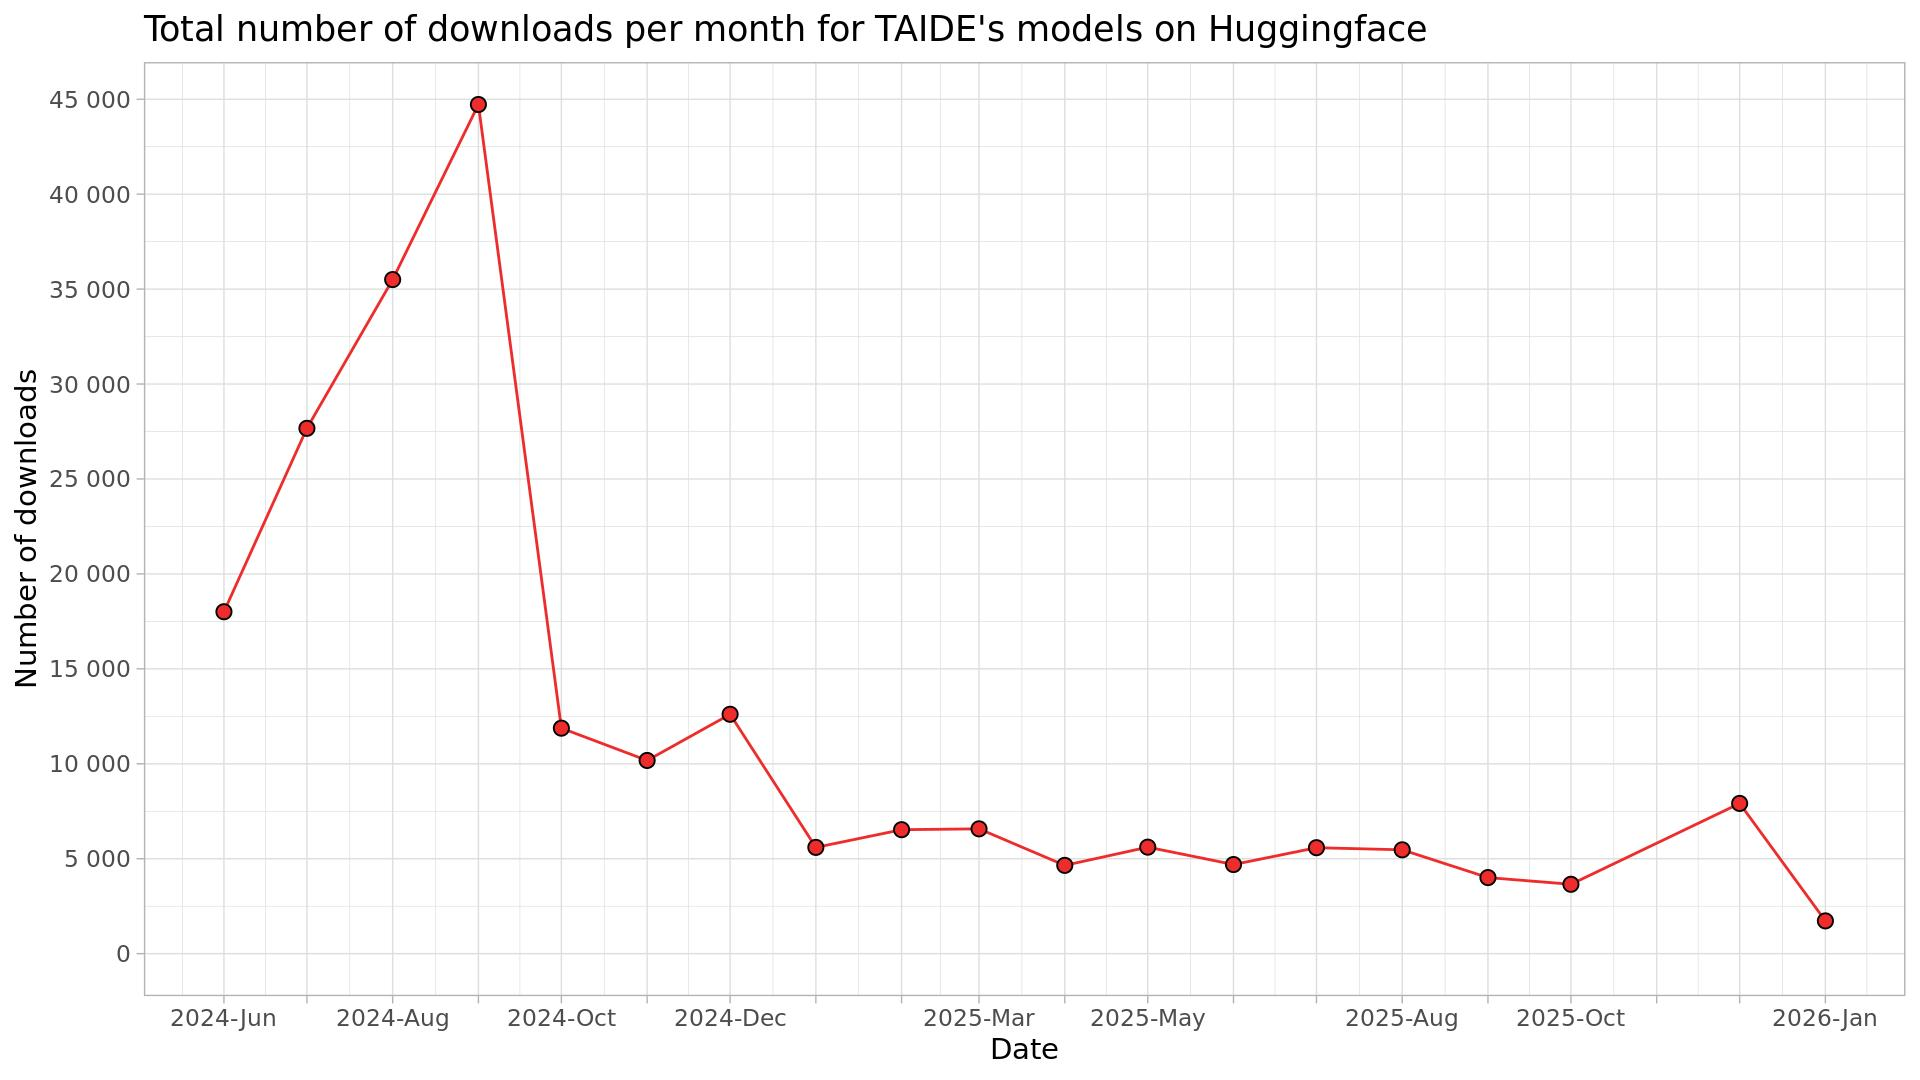
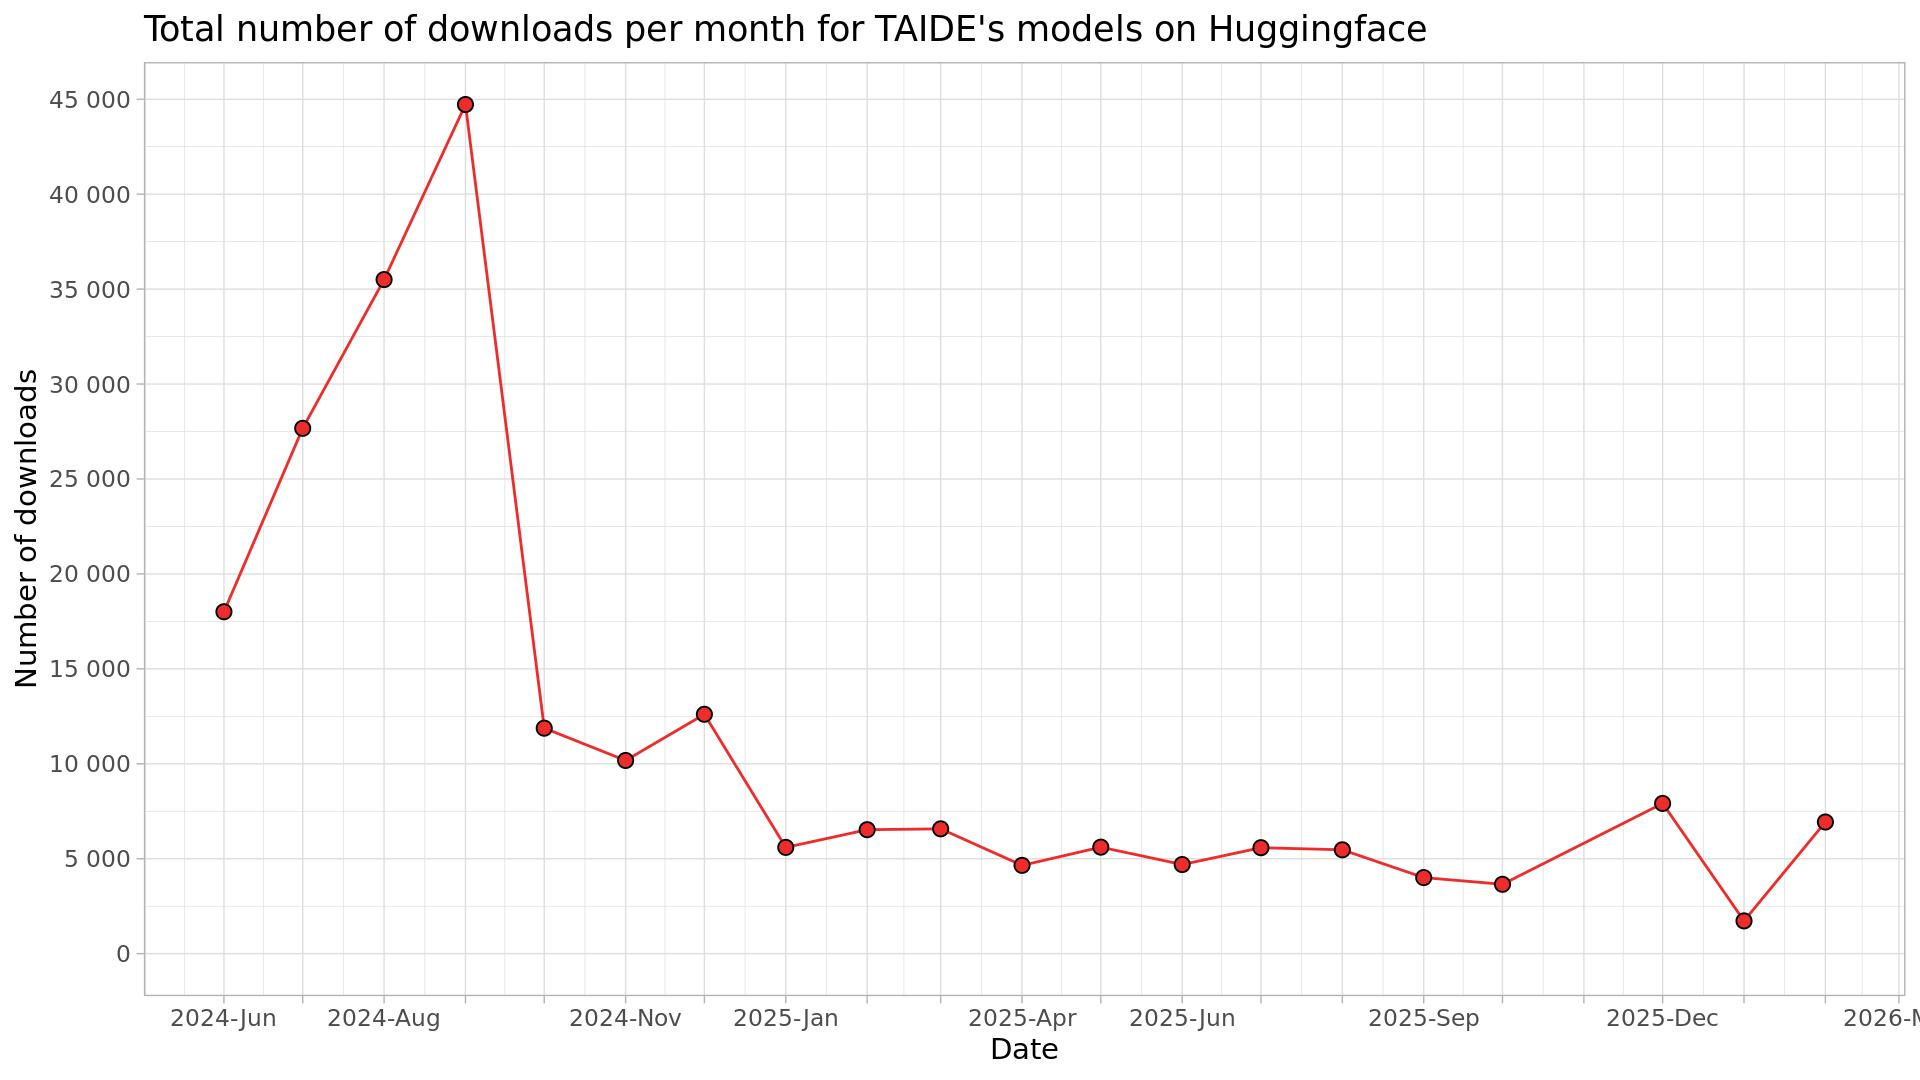
update

diff --git a/README.md b/README.md
@@ -11,17 +11,17 @@ Script is run monthly, and a monthly `csv`-file outputted to `/data` folder.
 !["Huggingface downloads by model plot."](https://github.com/nctu6/huggingface_stats/blob/main/plots/downloads_by_model.jpg)
 
 ## Table of downloads
-|model_name                          | downloadsAllTime| 2026-01| 2025-12| 2025-10| 2025-09| 2025-08| 2025-07| 2025-06| 2025-05| 2025-04| 2025-03| 2025-02| 2025-01| 2024-12| 2024-11| 2024-10| 2024-09| 2024-08| 2024-07| 2024-06|
-|:-----------------------------------|----------------:|-------:|-------:|-------:|-------:|-------:|-------:|-------:|-------:|-------:|-------:|-------:|-------:|-------:|-------:|-------:|-------:|-------:|-------:|-------:|
-|Llama3-TAIDE-LX-8B-Chat-Alpha1      |           110380|     337|    3073|     346|     171|     348|    1416|     446|    1549|    1675|    3484|    4922|    3122|    8215|    5272|    5042|   21499|   27164|   11808|   10491|
-|TAIDE-LX-7B-Chat                    |            63016|      82|     290|     437|     184|     276|    1228|     776|     591|     527|    1045|     909|    1036|    1455|    3774|    6130|   21600|    3495|   14122|    5059|
-|Llama-3.1-TAIDE-LX-8B-Chat          |            23691|     471|    3281|    1339|    1774|    4689|    2699|    3139|    2770|    1975|    1554|       0|       0|       0|       0|       0|       0|       0|       0|       0|
-|TAIDE-LX-7B                         |            13642|      39|      73|      42|      27|      48|     141|     222|     558|     338|     145|     215|    1150|    2491|     463|     215|     860|    4063|    1098|    1454|
-|Gemma-3-TAIDE-12b-Chat              |             5028|     745|    1141|    1369|    1763|      10|       0|       0|       0|       0|       0|       0|       0|       0|       0|       0|       0|       0|       0|       0|
-|Llama3-TAIDE-LX-8B-Chat-Alpha1-4bit |             4220|      28|      37|      92|      51|      76|      63|      72|     102|      99|     252|     172|     185|     312|     444|     301|     527|     324|     412|     671|
-|TAIDE-LX-7B-Chat-4bit               |             2057|      24|      18|      29|      37|      22|      34|      39|      40|      37|      94|     311|     104|     135|     217|     107|     194|     148|     208|     259|
-|b.11.0.0                            |              355|       0|       0|       0|       0|       0|       0|       0|       0|       0|       0|       0|       0|       0|       5|       0|       7|     302|       5|      36|
-|llava_llama3_8b_clip336_e           |              115|       0|       0|       0|       0|       0|       0|       0|       0|       0|       0|       0|       0|       0|       0|      81|      34|       0|       0|       0|
-|a.2.0.0                             |               24|       0|       0|       0|       0|       0|       0|       0|       0|       0|       0|       0|       0|       0|       0|       0|       0|       0|       0|      24|
-|e.1.1.0                             |               19|       0|       0|       0|       0|       0|       0|       0|       0|       0|       0|       0|       0|       0|       0|       0|       0|       5|       0|      14|
-|b.1.0.0                             |               15|       0|       0|       0|       0|       0|       0|       0|       0|       0|       0|       0|       0|       0|       0|       0|       0|       0|      15|       0|
+|model_name                          | downloadsAllTime| 2026-02| 2026-01| 2025-12| 2025-10| 2025-09| 2025-08| 2025-07| 2025-06| 2025-05| 2025-04| 2025-03| 2025-02| 2025-01| 2024-12| 2024-11| 2024-10| 2024-09| 2024-08| 2024-07| 2024-06|
+|:-----------------------------------|----------------:|-------:|-------:|-------:|-------:|-------:|-------:|-------:|-------:|-------:|-------:|-------:|-------:|-------:|-------:|-------:|-------:|-------:|-------:|-------:|-------:|
+|Llama3-TAIDE-LX-8B-Chat-Alpha1      |           110699|     319|     337|    3073|     346|     171|     348|    1416|     446|    1549|    1675|    3484|    4922|    3122|    8215|    5272|    5042|   21499|   27164|   11808|   10491|
+|TAIDE-LX-7B-Chat                    |            63399|     383|      82|     290|     437|     184|     276|    1228|     776|     591|     527|    1045|     909|    1036|    1455|    3774|    6130|   21600|    3495|   14122|    5059|
+|Llama-3.1-TAIDE-LX-8B-Chat          |            24004|     313|     471|    3281|    1339|    1774|    4689|    2699|    3139|    2770|    1975|    1554|       0|       0|       0|       0|       0|       0|       0|       0|       0|
+|TAIDE-LX-7B                         |            13668|      26|      39|      73|      42|      27|      48|     141|     222|     558|     338|     145|     215|    1150|    2491|     463|     215|     860|    4063|    1098|    1454|
+|Gemma-3-TAIDE-12b-Chat              |            10844|    5816|     745|    1141|    1369|    1763|      10|       0|       0|       0|       0|       0|       0|       0|       0|       0|       0|       0|       0|       0|       0|
+|Llama3-TAIDE-LX-8B-Chat-Alpha1-4bit |             4260|      40|      28|      37|      92|      51|      76|      63|      72|     102|      99|     252|     172|     185|     312|     444|     301|     527|     324|     412|     671|
+|TAIDE-LX-7B-Chat-4bit               |             2093|      36|      24|      18|      29|      37|      22|      34|      39|      40|      37|      94|     311|     104|     135|     217|     107|     194|     148|     208|     259|
+|b.11.0.0                            |              355|       0|       0|       0|       0|       0|       0|       0|       0|       0|       0|       0|       0|       0|       0|       5|       0|       7|     302|       5|      36|
+|llava_llama3_8b_clip336_e           |              115|       0|       0|       0|       0|       0|       0|       0|       0|       0|       0|       0|       0|       0|       0|       0|      81|      34|       0|       0|       0|
+|a.2.0.0                             |               24|       0|       0|       0|       0|       0|       0|       0|       0|       0|       0|       0|       0|       0|       0|       0|       0|       0|       0|       0|      24|
+|e.1.1.0                             |               19|       0|       0|       0|       0|       0|       0|       0|       0|       0|       0|       0|       0|       0|       0|       0|       0|       0|       5|       0|      14|
+|b.1.0.0                             |               15|       0|       0|       0|       0|       0|       0|       0|       0|       0|       0|       0|       0|       0|       0|       0|       0|       0|       0|      15|       0|
